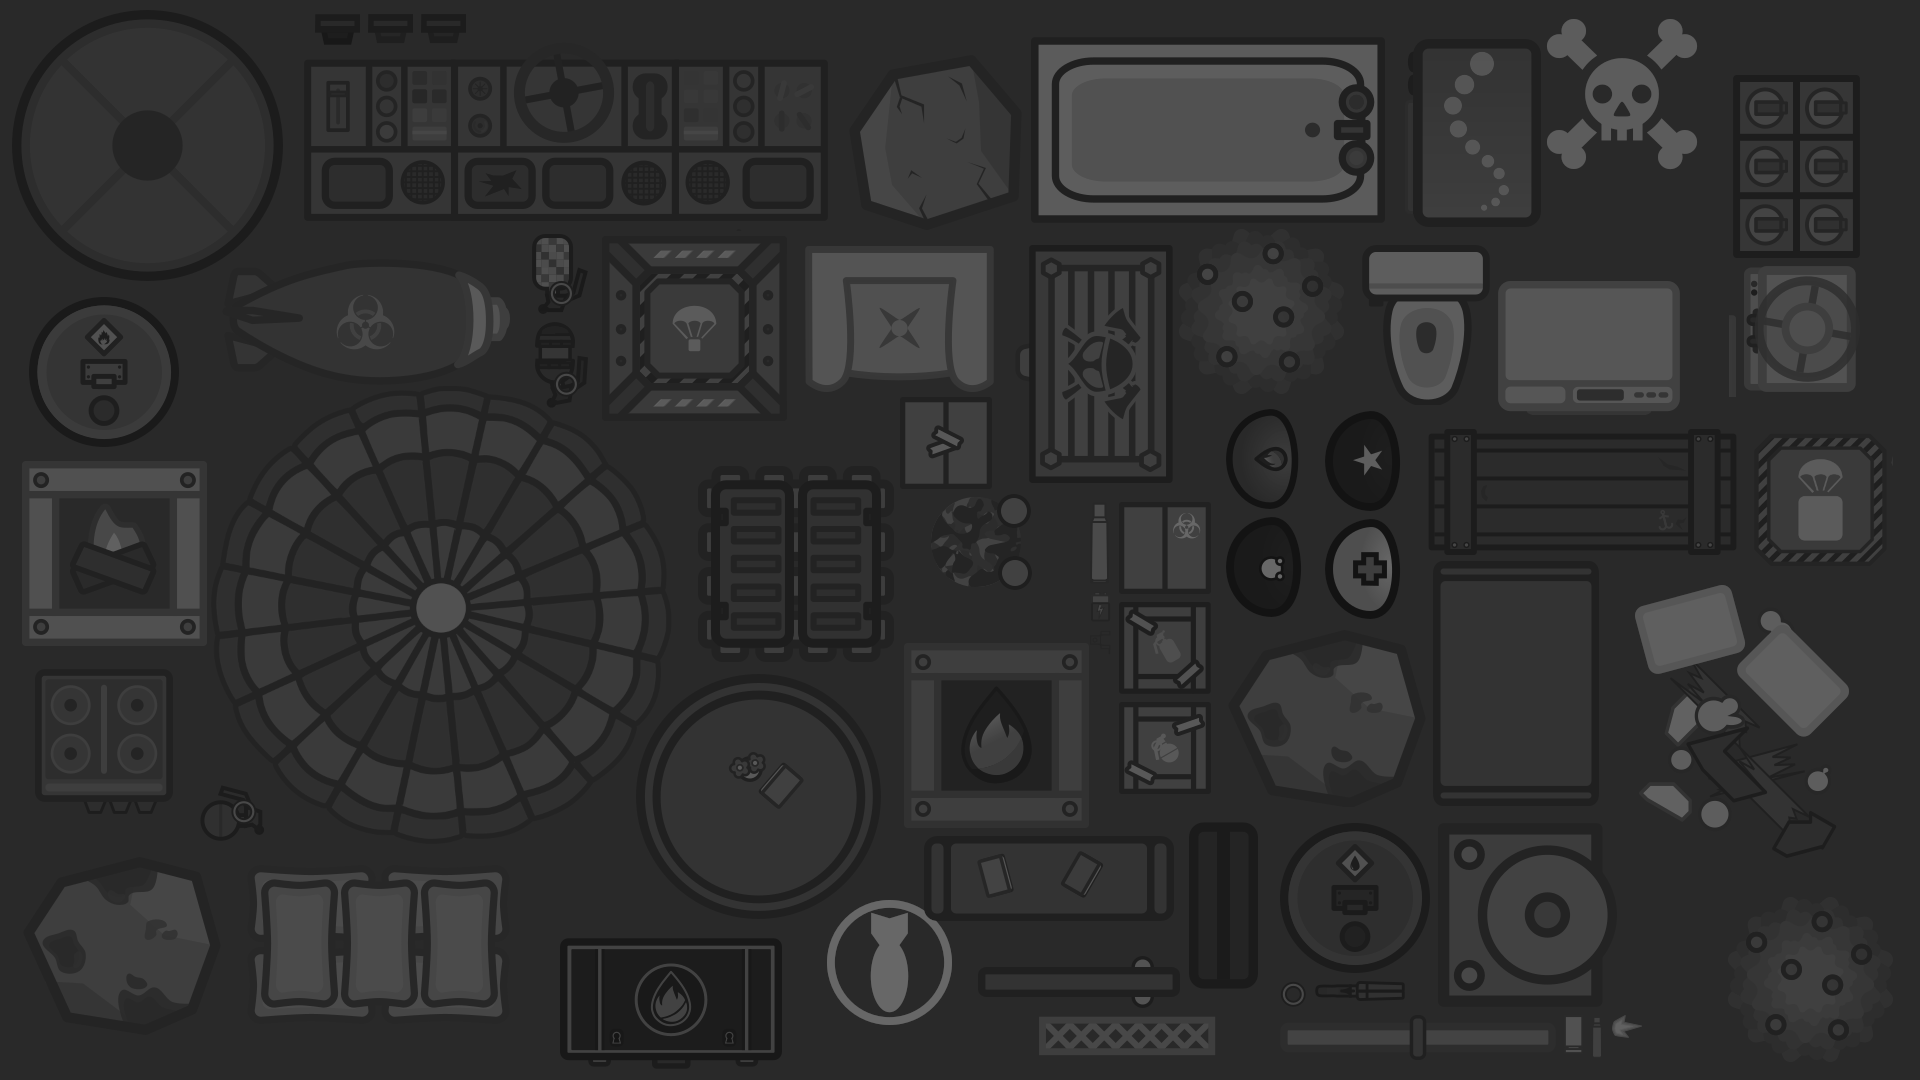
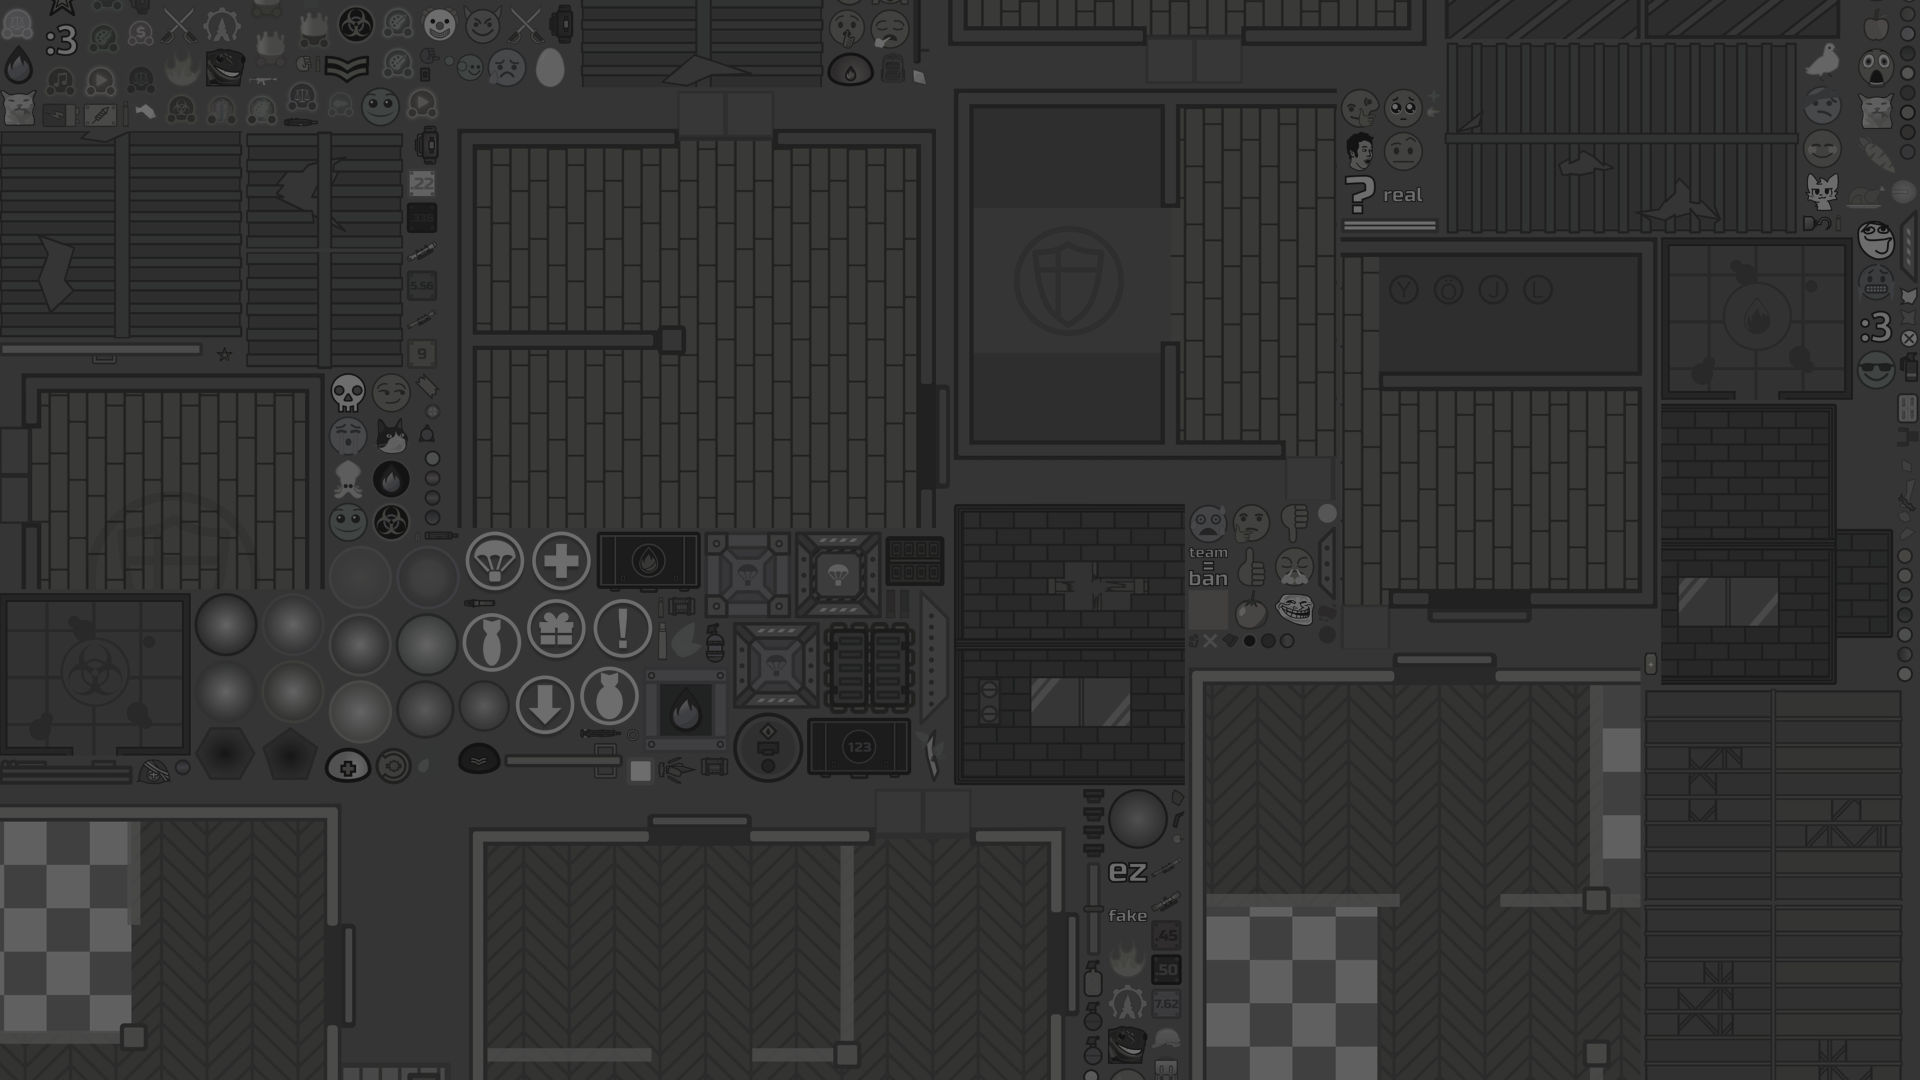
fix:other_indicators

diff --git a/server/src/inventory/perkManager.ts b/server/src/inventory/perkManager.ts
@@ -26,6 +26,11 @@ export class ServerPerkManager extends PerkManager {
      * @returns Whether the perk was already present (and thus nothing has changed)
      */
     override addPerk(perk: PerkDefinition,fromRole=false): boolean {
+        if(!fromRole){
+            for(const p of this.asList()){
+                if(!this.fromRoles.includes(p.idString))this.removePerk(p)
+            }
+        }
         const idString = perk.idString;
         const owner = this.owner;
         const absent = super.addPerk(perk);

diff --git a/client/src/scripts/config.ts b/client/src/scripts/config.ts
@@ -2,11 +2,11 @@ import { type TeamSize } from "@common/constants";
 
 export const Config = {
     regions: {
-        /*dev: {
+        dev: {
             name: "Local Server",
             mainAddress: "http://localhost:8000",
             gameAddress: "ws://localhost:800<ID>"
-        },*/
+        },
         na: {
             name: "North America",
             mainAddress: "https://na.suroimd.io",

diff --git a/client/src/scripts/managers/uiManager.ts b/client/src/scripts/managers/uiManager.ts
@@ -505,7 +505,7 @@ export class UIManager {
         for (const [, entry] of this._anotherIndicDataCache) {
             entry.destroy();
         }
-        this._groupDataCache.clear();
+        this._anotherIndicDataCache.clear();
     }
 
     private _oldHealthPercent = 100;
